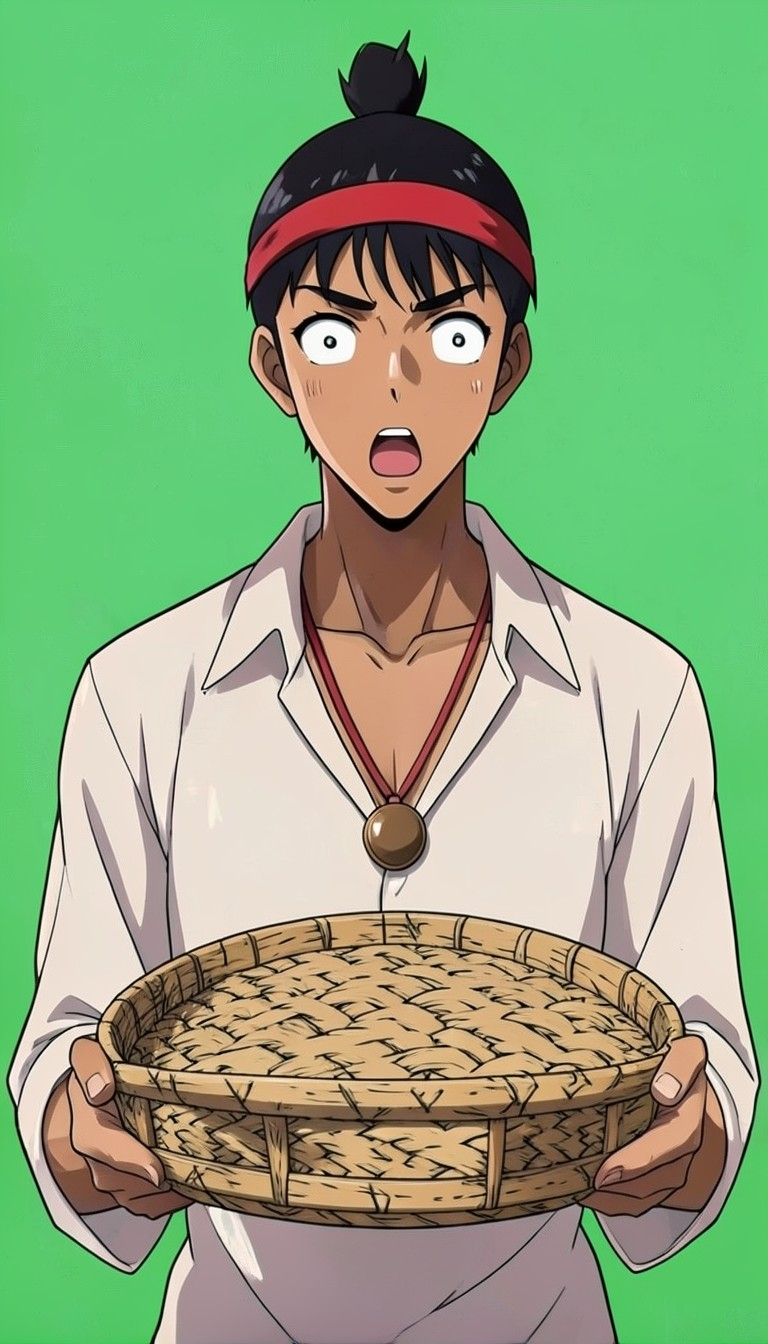
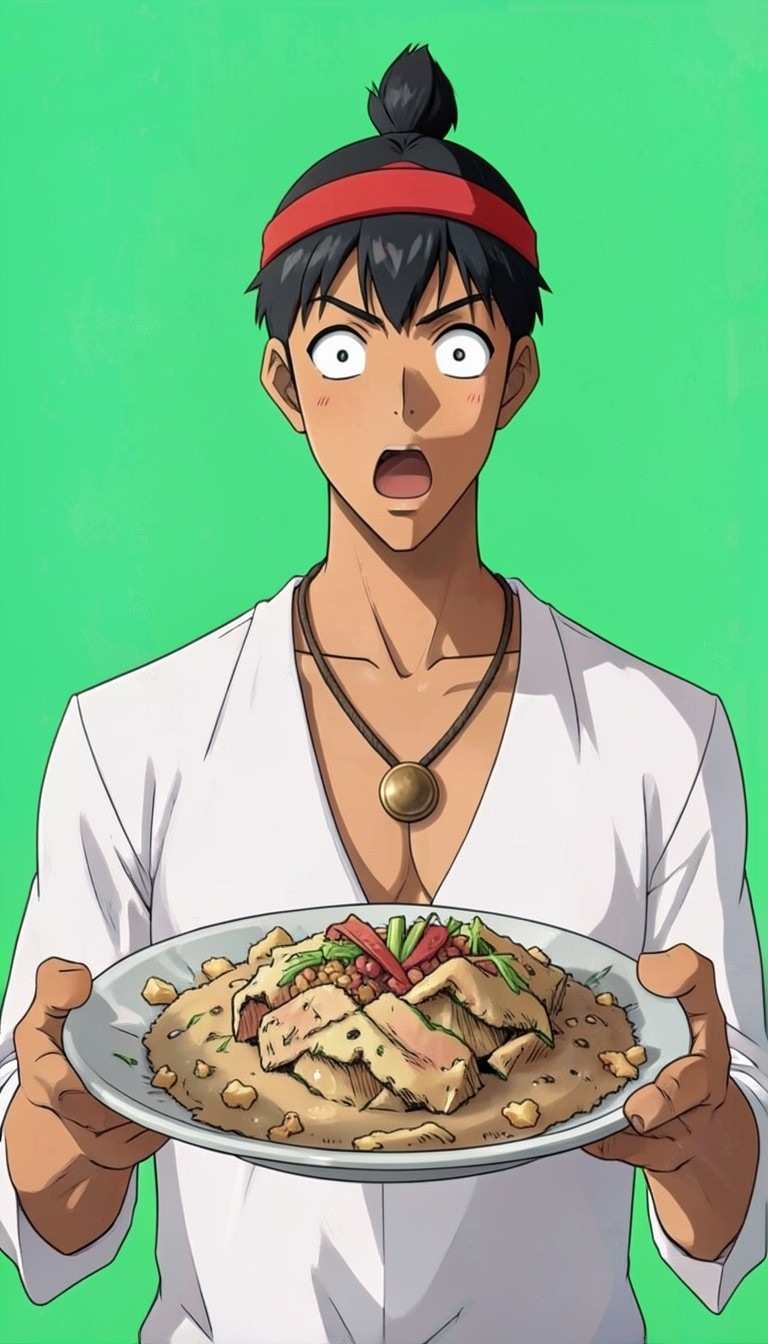
History Indio: Episode 2 draft keyframe sources and contact sheet; keys/ rebuilt locally
Claude-Session: https://claude.ai/code/session_014Q6YnoAAKF1JaywZARCRz9

diff --git a/history-indio/HANDOFF.md b/history-indio/HANDOFF.md
@@ -64,3 +64,5 @@ Save tokens and effort: do NOT animate every shot. Most shots stay as painted st
 - Story thread: "M" (the mystery woman) placed the order and tipped him; Indio now has two tattoos; he works as a delivery rider.
 - Keyframes: `pipeline/make_keys.py videos/<slug>` builds everything from `key_prompts.json` (plates, characters on white, full frames, per-shot composite). Files already in `plates/ chars/ full/` are kept, so a Figma-made image saved under the same name replaces the NVIDIA draft; re-run to recomposite. On 2026-11-12 Figma credits ran out after one image (`plates/siege.png`); everything else is NVIDIA FLUX.2 klein.
 - Web pages could not be opened directly from the session (DNS); facts rest on search summaries cross-checked across pages (see `facts.md`).
+- Episode 2 `keys/` is not committed (100 MB of composites): rebuild it any time with `/opt/vc/bin/python pipeline/make_keys.py videos/ep02-british-sa-maynila` (uses the committed `plates/ chars/ full/`; no credits spent). `keyframes_sheet.jpg` shows the current drafts. NVIDIA limits met: prompts over 800 characters are refused; it cannot draw pancit on a bilao or Indio and Usman together reliably; teal clothes clash with the green key (rider jacket is orange).
+- To upgrade with Figma after credits reset: generate the character with the full prompt from `key_prompts.json` (ask for a flat bright green background), save it as `chars/<name>.png`, delete the `.jpg`, re-run make_keys. Priority: indio_shock (needs the bilao of pancit), indio_usman, usman_*, indio_* faces.
